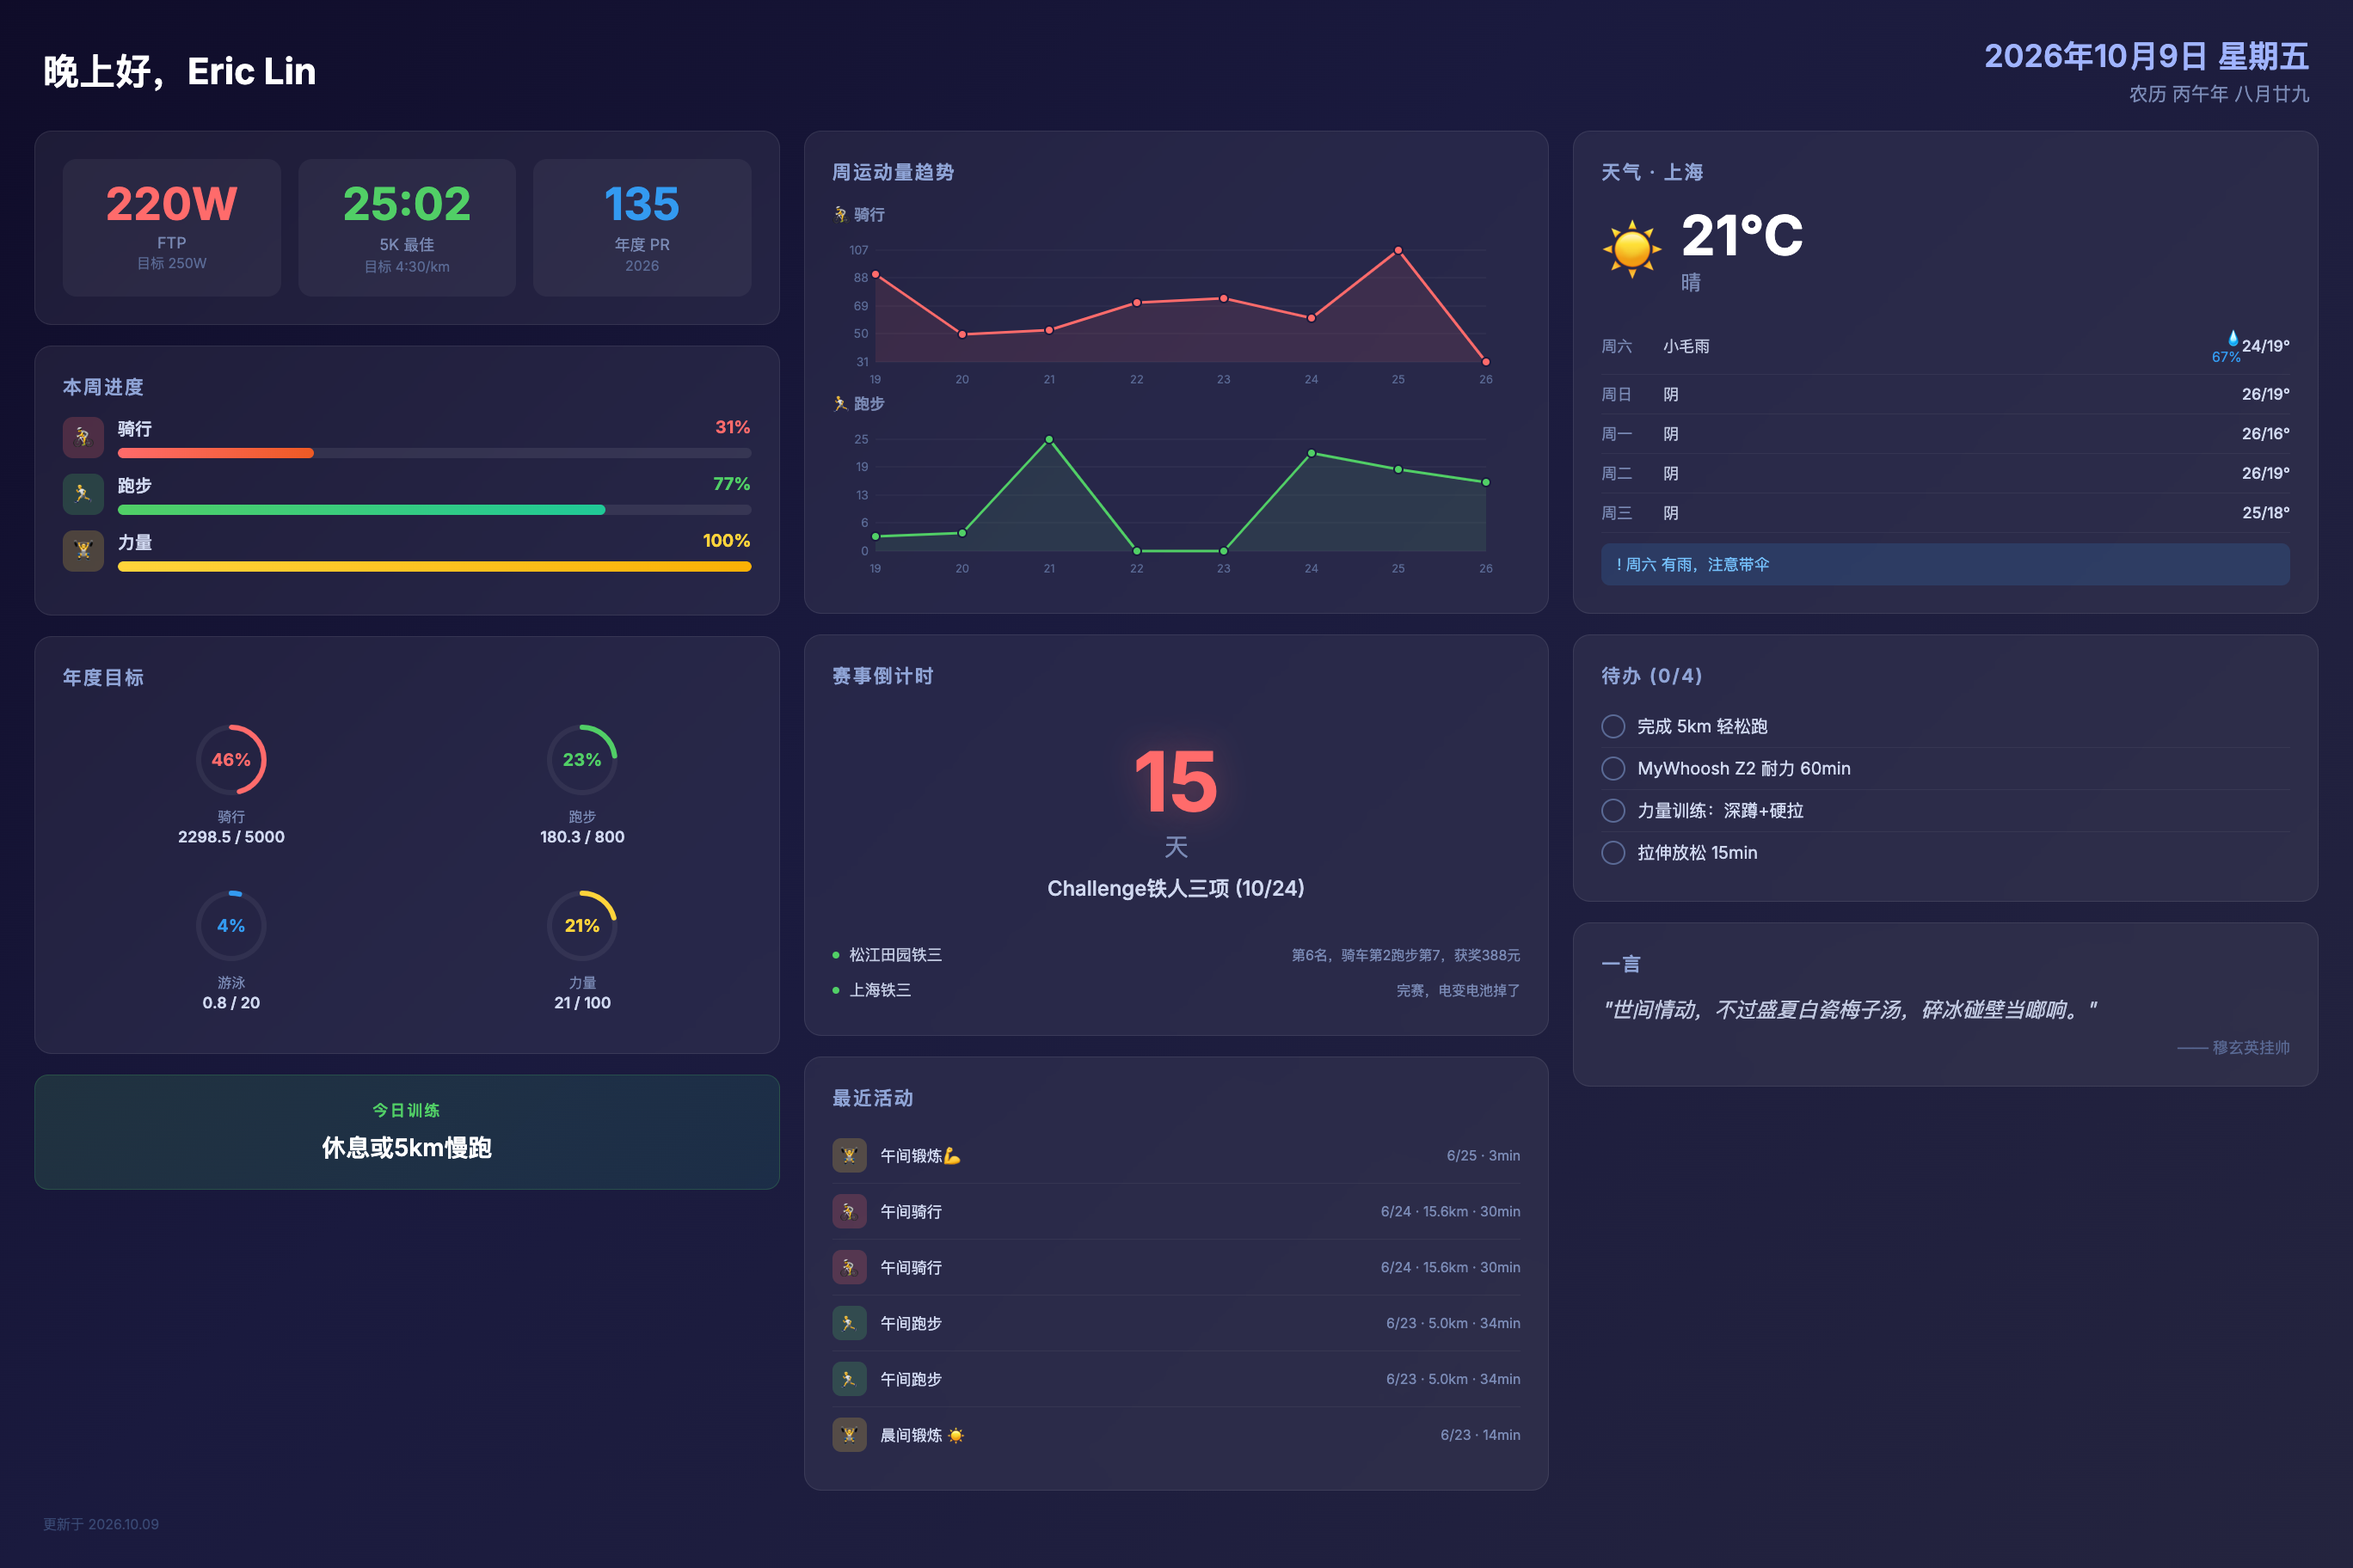
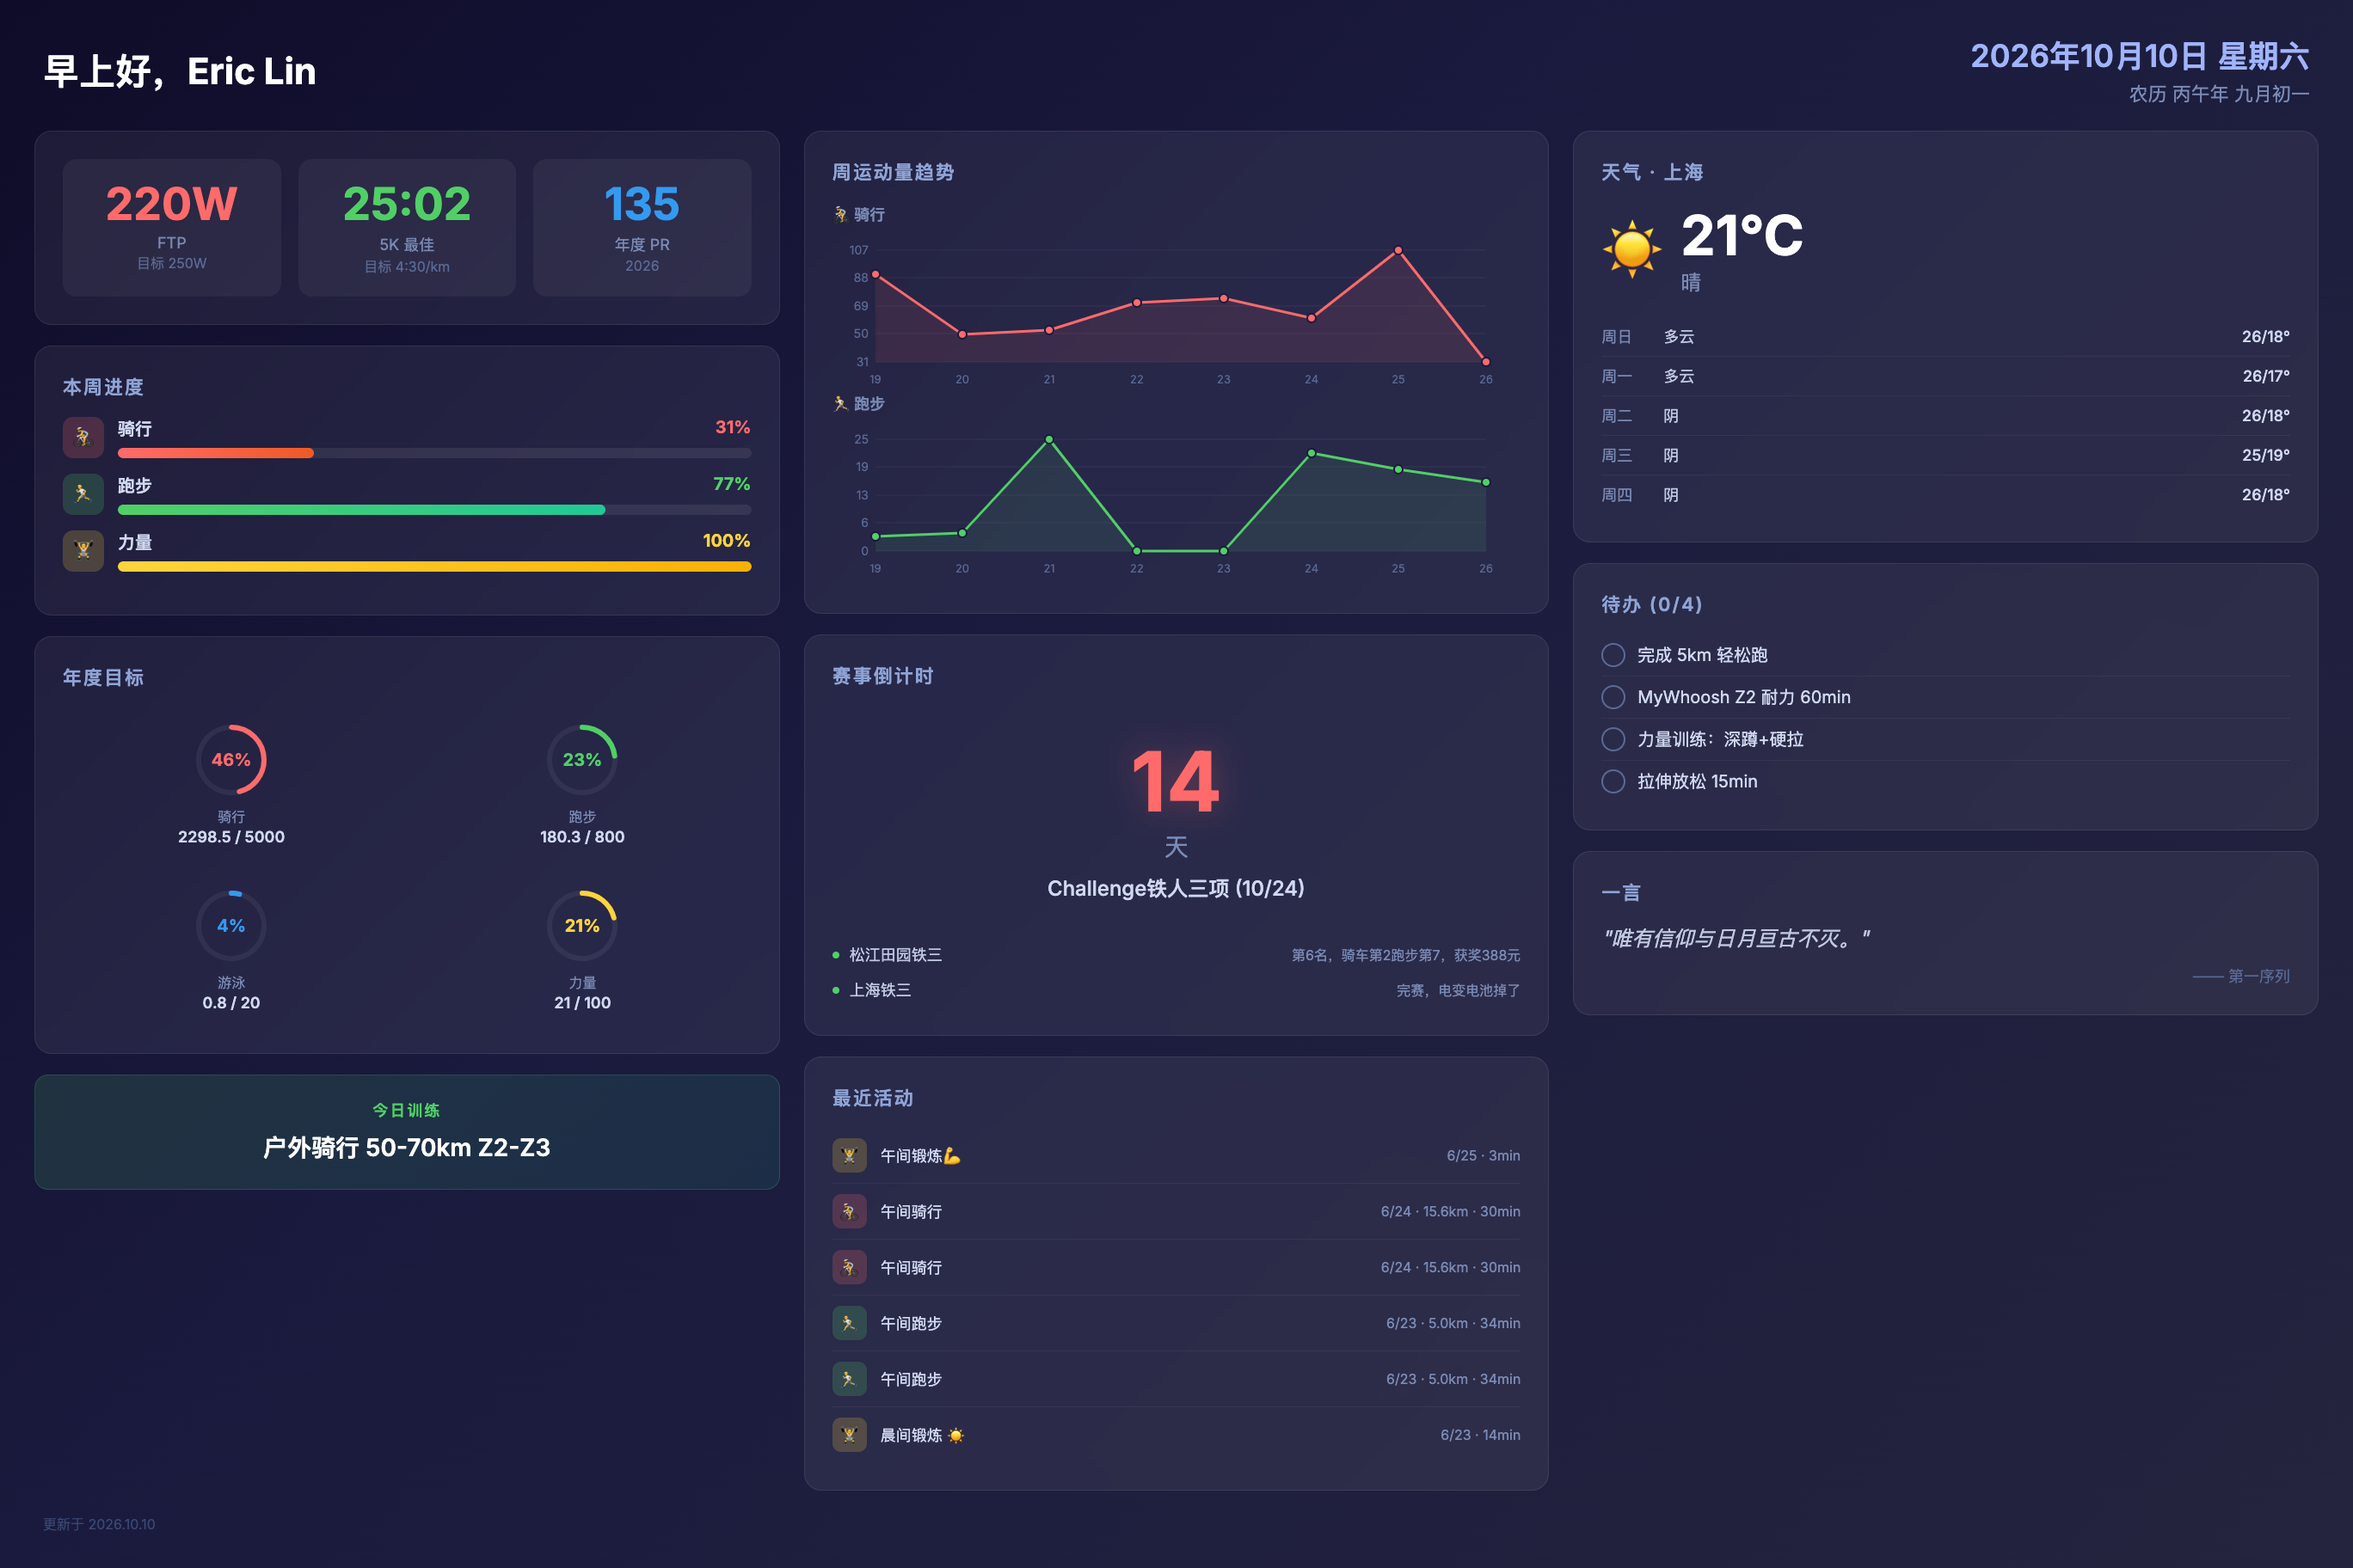
deploy: 2026-10-10-07:00

diff --git a/screensaver.html b/screensaver.html
@@ -490,13 +490,13 @@ html, body {
 <!-- ===== TOP BAR ===== -->
 <div class="top-bar">
   <div>
-    <div class="greeting">晚上好，Eric Lin</div>
+    <div class="greeting">早上好，Eric Lin</div>
     
   </div>
   <div class="date-info">
-    <div class="solar-date">2026年10月9日 星期五</div>
+    <div class="solar-date">2026年10月10日 星期六</div>
     
-    <div class="lunar-date">农历 丙午年 八月廿九</div>
+    <div class="lunar-date">农历 丙午年 九月初一</div>
     
   </div>
 </div>
@@ -638,7 +638,7 @@ html, body {
   
   <div class="ai-today-card">
     <div class="ai-today-label">今日训练</div>
-    <div class="ai-today-text">休息或5km慢跑</div>
+    <div class="ai-today-text">户外骑行 50-70km Z2-Z3</div>
   </div>
   
 
@@ -732,7 +732,7 @@ html, body {
   <div class="card">
     <div class="card-title">赛事倒计时</div>
     <div class="race-countdown">
-      <div class="countdown-number">15</div>
+      <div class="countdown-number">14</div>
       <div class="countdown-unit">天</div>
       <div class="countdown-name">Challenge铁人三项 (10/24)</div>
     </div>
@@ -817,43 +817,41 @@ html, body {
     
     
     <div class="forecast-row">
-      <div class="forecast-day">周六</div>
-      <div class="forecast-desc">小毛雨</div>
-      <div class="forecast-precip">💧67%</div>
-      <div class="forecast-range">24/19°</div>
-    </div>
-    
-    <div class="forecast-row">
       <div class="forecast-day">周日</div>
-      <div class="forecast-desc">阴</div>
+      <div class="forecast-desc">多云</div>
       <div class="forecast-precip"></div>
-      <div class="forecast-range">26/19°</div>
+      <div class="forecast-range">26/18°</div>
     </div>
     
     <div class="forecast-row">
       <div class="forecast-day">周一</div>
-      <div class="forecast-desc">阴</div>
+      <div class="forecast-desc">多云</div>
       <div class="forecast-precip"></div>
-      <div class="forecast-range">26/16°</div>
+      <div class="forecast-range">26/17°</div>
     </div>
     
     <div class="forecast-row">
       <div class="forecast-day">周二</div>
       <div class="forecast-desc">阴</div>
       <div class="forecast-precip"></div>
-      <div class="forecast-range">26/19°</div>
+      <div class="forecast-range">26/18°</div>
     </div>
     
     <div class="forecast-row">
       <div class="forecast-day">周三</div>
       <div class="forecast-desc">阴</div>
       <div class="forecast-precip"></div>
-      <div class="forecast-range">25/18°</div>
+      <div class="forecast-range">25/19°</div>
+    </div>
+    
+    <div class="forecast-row">
+      <div class="forecast-day">周四</div>
+      <div class="forecast-desc">阴</div>
+      <div class="forecast-precip"></div>
+      <div class="forecast-range">26/18°</div>
     </div>
     
     
-    
-    <div class="rain-alert">! 周六 有雨，注意带伞</div>
     
   </div>
   
@@ -902,9 +900,9 @@ html, body {
   
   <div class="card">
     <div class="card-title">一言</div>
-    <div class="quote-text">"世间情动，不过盛夏白瓷梅子汤，碎冰碰壁当啷响。"</div>
+    <div class="quote-text">"唯有信仰与日月亘古不灭。"</div>
     
-    <div class="quote-from">—— 穆玄英挂帅</div>
+    <div class="quote-from">—— 第一序列</div>
     
   </div>
   
@@ -913,7 +911,7 @@ html, body {
 
 <!-- ===== BOTTOM BAR ===== -->
 <div class="bottom-bar">
-  <div class="update-time">更新于 2026.10.09</div>
+  <div class="update-time">更新于 2026.10.10</div>
 </div>
 
 </div>

diff --git a/life.html b/life.html
@@ -89,7 +89,7 @@ html, body {
 <table class="header-table">
   <tr>
     <td class="header-left">生活</td>
-    <td class="header-right">2026.10.09</td>
+    <td class="header-right">2026.10.10</td>
   </tr>
 </table>
 
@@ -146,58 +146,56 @@ html, body {
   <table class="forecast-table">
     
     <tr>
-      <td class="forecast-day">周六</td>
-      <td class="forecast-icon">.</td>
-      <td>小毛雨</td>
-      <td class="forecast-range">24/19°C</td>
-    </tr>
-    
-    <tr>
       <td class="forecast-day">周日</td>
       <td class="forecast-icon">~</td>
-      <td>阴</td>
-      <td class="forecast-range">26/19°C</td>
+      <td>多云</td>
+      <td class="forecast-range">26/18°C</td>
     </tr>
     
     <tr>
       <td class="forecast-day">周一</td>
       <td class="forecast-icon">~</td>
-      <td>阴</td>
-      <td class="forecast-range">26/16°C</td>
+      <td>多云</td>
+      <td class="forecast-range">26/17°C</td>
     </tr>
     
     <tr>
       <td class="forecast-day">周二</td>
       <td class="forecast-icon">~</td>
       <td>阴</td>
-      <td class="forecast-range">26/19°C</td>
+      <td class="forecast-range">26/18°C</td>
     </tr>
     
     <tr>
       <td class="forecast-day">周三</td>
       <td class="forecast-icon">~</td>
       <td>阴</td>
-      <td class="forecast-range">25/18°C</td>
+      <td class="forecast-range">25/19°C</td>
     </tr>
     
     <tr>
       <td class="forecast-day">周四</td>
       <td class="forecast-icon">~</td>
       <td>阴</td>
-      <td class="forecast-range">25/16°C</td>
+      <td class="forecast-range">26/18°C</td>
     </tr>
     
     <tr>
       <td class="forecast-day">周五</td>
-      <td class="forecast-icon">~</td>
-      <td>阴</td>
-      <td class="forecast-range">26/18°C</td>
+      <td class="forecast-icon">.</td>
+      <td>小毛雨</td>
+      <td class="forecast-range">27/20°C</td>
+    </tr>
+    
+    <tr>
+      <td class="forecast-day">周六</td>
+      <td class="forecast-icon">.</td>
+      <td>小毛雨</td>
+      <td class="forecast-range">26/21°C</td>
     </tr>
     
   </table>
   
-  
-  <div class="rain-alert">! 周六 有雨，注意带伞</div>
   
 </div>
 
@@ -207,10 +205,10 @@ html, body {
   <p class="section-title">📅 今日</p>
   <table class="data-table">
     <tr>
-      <td>2026年10月9日 星期四</td>
+      <td>2026年10月10日 星期五</td>
     </tr>
     <tr>
-      <td>农历丙午年 八月廿九</td>
+      <td>农历丙午年 九月初一</td>
     </tr>
   </table>
 </div>
@@ -261,9 +259,9 @@ html, body {
 
 <div class="box">
   <p class="section-title">💬 一言</p>
-  <p class="quote-text">世间情动，不过盛夏白瓷梅子汤，碎冰碰壁当啷响。</p>
+  <p class="quote-text">唯有信仰与日月亘古不灭。</p>
   
-  <p class="quote-from">—— 穆玄英挂帅</p>
+  <p class="quote-from">—— 第一序列</p>
   
 </div>
 

diff --git a/index.html b/index.html
@@ -74,7 +74,7 @@ html, body {
 <table class="header-table">
   <tr>
     <td class="header-left">Eric Lin · 运动</td>
-    <td class="header-right">2026.10.09</td>
+    <td class="header-right">2026.10.10</td>
   </tr>
 </table>
 
@@ -225,17 +225,10 @@ html, body {
 <div class="ai-plan">
   <div class="ai-plan-title">AI 训练建议</div>
   
-  <div class="ai-today">今日: 力量训练（全身）</div>
+  <div class="ai-today">今日: 户外骑行 60km Z2-Z3</div>
   
   
   <table class="ai-weekly">
-    
-    <tr>
-      <td class="day">周五</td>
-      
-      <td>力量训练（全身）</td>
-      
-    </tr>
     
     <tr>
       <td class="day">周六</td>
@@ -279,6 +272,13 @@ html, body {
       
     </tr>
     
+    <tr>
+      <td class="day">周五</td>
+      
+      <td>力量训练（全身）</td>
+      
+    </tr>
+    
   </table>
   
   
@@ -293,7 +293,7 @@ html, body {
   <p class="section-title">即将到来</p>
   
   <div class="countdown-box">
-    <div class="countdown-days">15</div>
+    <div class="countdown-days">14</div>
     <div class="countdown-label">距 Challenge铁人三项 (10/24)</div>
   </div>
   

diff --git a/work.html b/work.html
@@ -89,7 +89,7 @@ html, body {
 <table class="header-table">
   <tr>
     <td class="header-left">工作</td>
-    <td class="header-right">2026.10.09</td>
+    <td class="header-right">2026.10.10</td>
   </tr>
 </table>
 
